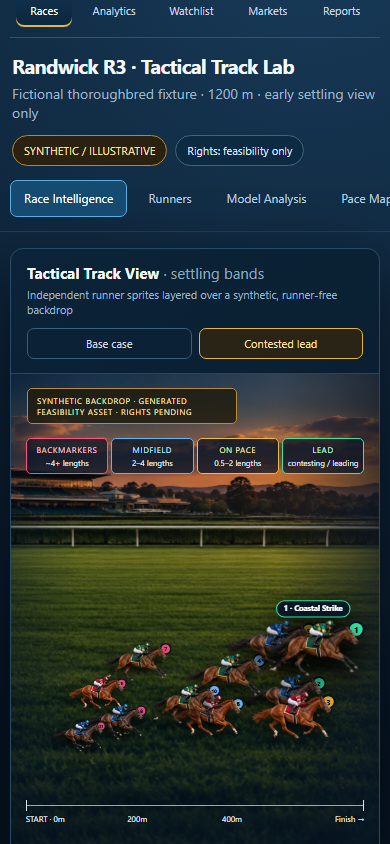
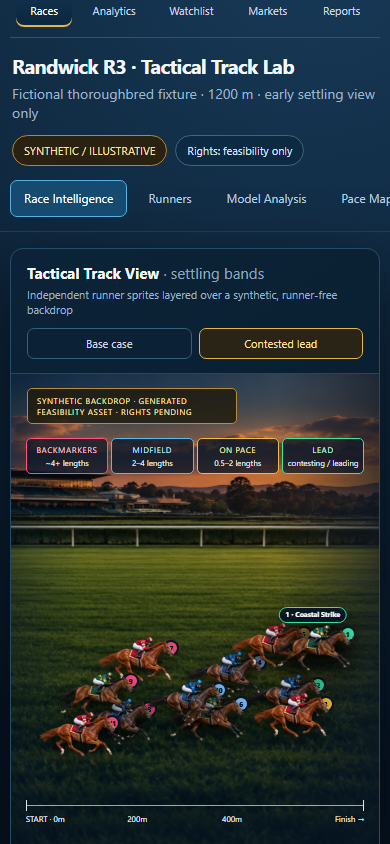
feat: align runner scale and V7 speed map

Changed region(s): [[0.0923, 0.7085, 0.9231, 0.8934]]

diff --git a/apps/web/public/tactical-track-lab.html b/apps/web/public/tactical-track-lab.html
@@ -16,7 +16,10 @@
       .runner-label{top:-18px;background:#081525ed;opacity:0;pointer-events:none;transition:opacity .2s}
       .runner:hover .runner-label,.runner.selected .runner-label{opacity:1}
       .runner .runner-dot{width:16px;height:16px;line-height:16px}
-      @media(max-width:520px){.runner-label{top:-14px;font-size:7px}.runner .runner-dot{width:12px;height:12px;line-height:12px}}
+      .runner,.runner.selected{transform:translate(-50%,-50%) !important}
+      .runner{width:116px}
+      @media(max-width:1080px){.runner{width:96px}}
+      @media(max-width:520px){.runner{width:78px}.runner-label{top:-14px;font-size:7px}.runner .runner-dot{width:12px;height:12px;line-height:12px}}
     </style>
     <style>
       .pace-map{height:146px;background:linear-gradient(180deg,#102f47,#081b2b)}
@@ -27,7 +30,15 @@
       .pace-map-caption{position:absolute;left:13px;top:9px;color:#9db8ca;font-size:8px;letter-spacing:.08em;text-transform:uppercase}
       .pace-runner-dot{position:absolute;width:12px;height:12px;margin:-6px 0 0 -6px;border-radius:50%;background:var(--c);border:2px solid #071525;box-shadow:0 0 0 1px #d9ecf455;z-index:2;color:#071525;font-size:7px;font-weight:800;line-height:8px;text-align:center}
       .pace-runner-dot.selected{width:16px;height:16px;margin:-8px 0 0 -8px;line-height:12px;box-shadow:0 0 0 2px #fff,0 0 0 4px var(--c)}
-      @media(max-width:520px){.pace-map{height:142px}.pace-map-caption{font-size:7px}.pace-runner-dot{width:11px;height:11px;margin:-5px 0 0 -5px;font-size:6px;line-height:7px}.pace-runner-dot.selected{width:14px;height:14px;margin:-7px 0 0 -7px;line-height:10px}}
+      .pace-map{height:166px;padding:0}
+      .pace-map:before,.pace-map:after{display:none}
+      .pace-map-chart{position:absolute;left:68px;right:12px;top:24px;bottom:30px;border:1px dotted #2c5872;background:repeating-linear-gradient(90deg,transparent 0,transparent calc(25% - 1px),#244b63 calc(25% - 1px),#244b63 25%),repeating-linear-gradient(0deg,transparent 0,transparent calc(25% - 1px),#244b63 calc(25% - 1px),#244b63 25%)}
+      .pace-map-band{position:absolute;left:-59px;width:54px;height:25%;top:calc(var(--row) * 25%);display:flex;align-items:center;padding-left:7px;border-left:2px solid var(--band);background:color-mix(in srgb,var(--band) 22%,#0a2235);color:#f4f7fb;font-size:8px;font-weight:700;z-index:1}
+      .pace-map-band.leaders{--band:#43e2a0}.pace-map-band.on-pace{--band:#edbc46}.pace-map-band.midfield{--band:#55bbf8}.pace-map-band.backmarkers{--band:#ff5281}
+      .pace-runner-dot{left:var(--x);top:calc((var(--row) + .5) * 25%);background:var(--c)}
+      .pace-map-axis{position:absolute;left:68px;right:12px;bottom:8px;display:flex;justify-content:space-between;color:#9db8ca;font-size:8px}
+      .pace-map-caption{top:7px}
+      @media(max-width:520px){.pace-map{height:158px}.pace-map-caption{font-size:7px}.pace-map-chart{left:61px;right:9px}.pace-map-band{left:-53px;width:49px;font-size:7px;padding-left:5px}.pace-map-axis{left:61px;right:9px;font-size:7px}.pace-runner-dot{width:11px;height:11px;margin:-5px 0 0 -5px;font-size:6px;line-height:7px}.pace-runner-dot.selected{width:14px;height:14px;margin:-7px 0 0 -7px;line-height:10px}}
     </style>
   </head>
   <body>
@@ -47,7 +58,7 @@
         </section>
         <aside class="side">
           <section class="panel detail" id="detail"></section>
-          <section class="panel map-panel"><h3>Analytical pace map · linked field</h3><div class="pace-map" id="paceMap" role="img" aria-label="Side-on linked pace map"></div><p class="footer-note">Projected settling bands are illustrative, not validated position predictions.</p></section>
+          <section class="panel map-panel"><h3>Speed Map (Analytical View) · linked field</h3><div class="pace-map" id="paceMap" role="img" aria-label="V7-style linked analytical speed map"></div><p class="footer-note">Same synthetic field data as the track view; settling bands are illustrative.</p></section>
           <div class="notice"><b>Quality gate status: HOLD.</b><br />This lab tests layer independence and responsive composition. It is not a production route, licensed artwork, live-data view, or owner approval.</div>
         </aside>
       </main>
@@ -67,19 +78,21 @@
         {n:10,name:'Midnight Storm',color:'#78b9ef',group:'MIDFIELD',detail:'Midfield settling band',factor:'Synthetic fixture'},
         {n:11,name:'Silver Vale',color:'#fb4b78',group:'BACKMARKERS',detail:'Rear group · no precise trajectory claimed',factor:'Synthetic fixture'}
       ];
-      const base={1:[78,60,1.05],2:[73,69,.92],3:[67,58,.98],5:[63,72,.9],4:[55,61,.92],6:[52,72,.82],10:[47,67,.78],7:[36,59,.76],8:[30,72,.7],9:[25,67,.66],11:[20,77,.62]};
-      const contested={1:[82,58,1.08],2:[74,69,.9],3:[76,73,.93],5:[70,58,1],4:[58,64,.88],6:[53,73,.8],10:[47,70,.76],7:[34,61,.74],8:[28,74,.68],9:[23,68,.64],11:[18,77,.6]};
+      const syntheticSilks={1:{asset:"/tactical-track-runners/emerald-gold.png",label:"Emerald and gold"},2:{asset:"/tactical-track-runners/navy-cyan.png",label:"Navy and cyan"},3:{asset:"/tactical-track-runners/crimson-ivory.png",label:"Crimson and ivory"},4:{asset:"/tactical-track-runners/navy-cyan.png",label:"Navy and cyan"},5:{asset:"/tactical-track-runners/crimson-ivory.png",label:"Crimson and ivory"},6:{asset:"/tactical-track-runners/emerald-gold.png",label:"Emerald and gold"},7:{asset:"/tactical-track-runners/crimson-ivory.png",label:"Crimson and ivory"},8:{asset:"/tactical-track-runners/navy-cyan.png",label:"Navy and cyan"},9:{asset:"/tactical-track-runners/emerald-gold.png",label:"Emerald and gold"},10:{asset:"/tactical-track-runners/navy-cyan.png",label:"Navy and cyan"},11:{asset:"/tactical-track-runners/crimson-ivory.png",label:"Crimson and ivory"}};
+      runners.forEach(r=>{r.silks=syntheticSilks[r.n]});
+      const base={1:[78,60,1],2:[73,69,1],3:[67,58,1],5:[63,72,1],4:[55,61,1],6:[52,72,1],10:[47,67,1],7:[36,59,1],8:[30,72,1],9:[25,67,1],11:[20,77,1]};
+      const contested={1:[82,58,1],2:[74,69,1],3:[76,73,1],5:[70,58,1],4:[58,64,1],6:[53,73,1],10:[47,70,1],7:[34,61,1],8:[28,74,1],9:[23,68,1],11:[18,77,1]};
       let scenario='base',selected=1;
       const stage=document.querySelector('#trackStage'), groups=document.querySelector('#groups'), detail=document.querySelector('#detail');
-      function horse(r){const spriteBySilk={emerald:"/tactical-track-runners/emerald-gold.png",navy:"/tactical-track-runners/navy-cyan.png",crimson:"/tactical-track-runners/crimson-ivory.png"};const silk=r.n%3===1?"emerald":r.n%3===2?"navy":"crimson";return `<div class="runner-label">${r.n} · ${r.name}</div><span class="runner-dot">${r.n}</span><img src="${spriteBySilk[silk]}" alt="" draggable="false" />`}
-      function render(){const positions=scenario==='base'?base:contested;stage.querySelectorAll('.runner').forEach(el=>el.remove());runners.forEach(r=>{const el=document.createElement('div');el.className='runner'+(r.n===selected?' selected':'');el.dataset.n=r.n;el.style.cssText=`--runner-color:${r.color};left:${positions[r.n][0]}%;top:${positions[r.n][1]}%;transform:translate(-50%,-50%) scale(${positions[r.n][2]})`;el.innerHTML=horse(r);el.addEventListener('click',()=>{selected=r.n;render()});stage.appendChild(el)});renderGroups();renderDetail()}
+      function horse(r){const silk=r.silks||{asset:"/tactical-track-runners/emerald-gold.png",label:"Synthetic silk"};return `<div class="runner-label">${r.n} · ${r.name}</div><span class="runner-dot">${r.n}</span><img src="${silk.asset}" alt="${r.n} ${r.name} · ${silk.label} silks" draggable="false" />`}
+      function render(){const positions=scenario==='base'?base:contested;stage.querySelectorAll('.runner').forEach(el=>el.remove());runners.forEach(r=>{const el=document.createElement('div');el.className='runner'+(r.n===selected?' selected':'');el.dataset.n=r.n;el.dataset.group=r.group;el.style.cssText=`--runner-color:${r.color};left:${positions[r.n][0]}%;top:${positions[r.n][1]}%;transform:translate(-50%,-50%) scale(${positions[r.n][2]})`;el.innerHTML=horse(r);el.addEventListener('click',()=>{selected=r.n;render()});stage.appendChild(el)});renderGroups();renderDetail()}
       function renderGroups(){const order=['LEAD','ON PACE','MIDFIELD','BACKMARKERS'];groups.innerHTML=order.map(g=>`<section class="group"><h3>${g==='LEAD'?'LEADERS':g[0]+g.slice(1).toLowerCase()} (${runners.filter(r=>r.group===g).length})</h3><ul>${runners.filter(r=>r.group===g).map(r=>`<li><span class="num" style="--c:${r.color}">${r.n}</span><span>${r.name}</span></li>`).join('')}</ul></section>`).join('')}
       function renderDetail(){const r=runners.find(x=>x.n===selected);detail.innerHTML=`<div class="detail-top"><div class="runner-id"><span class="num" style="--c:${r.color}">${r.n}</span><div><b>${r.name}</b><small>Fictional runner · ${r.group.toLowerCase()}</small></div></div><button class="close" aria-label="Selected runner">×</button></div><div class="tabs"><button class="active">Overview</button><button>Pace & Position</button><button>Form</button><button>Evidence</button></div><div class="metric"><label><span>Expected settling band</span><strong style="color:${r.color}">${r.group}</strong></label><div class="bar"><i style="width:${r.group==='LEAD'?88:r.group==='ON PACE'?69:r.group==='MIDFIELD'?46:22}%"></i></div></div><div class="factor"><strong>✦</strong><span>${r.factor}</span></div><div class="factor"><strong>◈</strong><span>${r.detail}</span></div><div class="metric"><label><span>Model confidence</span><span>Illustrative only</span></label><div class="bar"><i style="width:52%;background:linear-gradient(90deg,#e8b33c,#f35e6c)"></i></div></div>`}
       document.querySelectorAll('[data-scenario]').forEach(btn=>btn.addEventListener('click',()=>{scenario=btn.dataset.scenario;document.querySelectorAll('[data-scenario]').forEach(b=>b.classList.toggle('active',b===btn));render()}));render();
     </script>
     <script>
       const paceMap=document.querySelector('#paceMap');
-      function renderPaceMap(){const dots=[...document.querySelectorAll('#trackStage .runner')];paceMap.innerHTML='<span class="pace-map-caption">SIDE-ON EARLY SETTLING · LIVE PROOF</span><span class="pace-map-line upper"></span><span class="pace-map-line lower"></span>'+dots.map(el=>{const x=parseFloat(el.style.left),y=parseFloat(el.style.top),top=25+(y-50)*1.5,label=el.querySelector('.runner-label')?.textContent||`Runner ${el.dataset.n}`,color=getComputedStyle(el).getPropertyValue('--runner-color').trim();return `<span class="pace-runner-dot${el.classList.contains('selected')?' selected':''}" style="--c:${color};left:${x}%;top:${top}%" title="${label}" aria-label="${label}">${el.dataset.n}</span>`}).join('')}
+      function renderPaceMap(){const dots=[...document.querySelectorAll('#trackStage .runner')],rows=[['LEAD','Leaders','leaders'],['ON PACE','On Pace','on-pace'],['MIDFIELD','Midfield','midfield'],['BACKMARKERS','Backmarkers','backmarkers']];paceMap.innerHTML='<span class="pace-map-caption">Same data as track view · expected position</span><div class="pace-map-chart">'+rows.map((row,index)=>`<span class="pace-map-band ${row[2]}" style="--row:${index}">${row[1]}</span>`).join('')+dots.map(el=>{const x=parseFloat(el.style.left),row=Math.max(0,rows.findIndex(item=>item[0]===el.dataset.group)),label=el.querySelector('.runner-label')?.textContent||`Runner ${el.dataset.n}`,color=getComputedStyle(el).getPropertyValue('--runner-color').trim();return `<span class="pace-runner-dot${el.classList.contains('selected')?' selected':''}" style="--c:${color};--x:${x}%;--row:${row}" title="${label}" aria-label="${label}">${el.dataset.n}</span>`}).join('')+'</div><div class="pace-map-axis"><span>800m</span><span>600m</span><span>400m</span><span>200m</span><span>Finish</span></div>'}
       document.querySelectorAll('[data-scenario]').forEach(btn=>btn.addEventListener('click',()=>requestAnimationFrame(renderPaceMap)));
       document.querySelector('#trackStage').addEventListener('click',()=>requestAnimationFrame(renderPaceMap));
       renderPaceMap();

diff --git a/docs/design-rescue/TACTICAL_TRACK_LAB_REVIEW.md b/docs/design-rescue/TACTICAL_TRACK_LAB_REVIEW.md
@@ -15,11 +15,13 @@ The lab is a standalone public HTML entry, not a production route. It uses one s
 - responsive desktop, tablet, and mobile layouts;
 - explicit synthetic/illustrative and rights-pending labels.
 
-The runner field was iterated after the first review: the geometric SVG treatment was removed, photorealistic synthetic horse-and-jockey layers were added, and dense name pills were reduced to a selected-runner label plus numbered identity markers. Full runner names remain in the linked groups and detail panel so the track remains readable at mobile width.
+The runner field was iterated after the first review: the geometric SVG treatment was removed, photorealistic synthetic horse-and-jockey layers were added, and dense name pills were reduced to a selected-runner label plus numbered identity markers. All runners now use one shared visual scale per viewport so the side-on field reads consistently. Full runner names remain in the linked groups and detail panel so the track remains readable at mobile width.
+
+The renderer now consumes a per-runner `silks` metadata object. This lab supplies synthetic local assets only; it does not activate or call Betfair. A production adapter can populate the same field from a rights-cleared provider-normalized silk asset or colour/pattern manifest.
 
 The backdrop was then iterated from a bend to a straightaway, and finally to the correct side-on race view for the side-profile runner layers. Horizontal parallel rails now sit behind the field, leaving the compositing zone open so runners do not visually intersect the fence.
 
-The analytical pace map was also corrected. It now renders all eleven field members from the main track DOM, follows Base/Contested scenario movement, and highlights the same selected runner instead of showing an unrelated four-dot placeholder.
+The analytical pace map was also corrected to follow the V7 golden language: four labelled settling bands, a gridded distance-to-finish axis, all eleven field members from the main track DOM, Base/Contested scenario movement, and the same selected-runner highlight instead of an unrelated four-dot placeholder.
 
[1 lines of base64/hex data omitted]
 
@@ -29,12 +31,12 @@ All screenshots are real Chromium captures at DPR 1. Mobile captures scroll the 
 
 | Scenario | Viewport | Screenshot | SHA-256 |
 | --- | ---: | --- | --- |
[12 lines of base64/hex data omitted]
 
 ## Validation
 

diff --git a/docs/design-rescue/V7_DESIGN_BASELINE.md b/docs/design-rescue/V7_DESIGN_BASELINE.md
@@ -32,8 +32,8 @@ The design programme retains all fourteen workspaces: Command Centre; Meetings &
 
 For any changed UI, the eventual evidence package must include real browser screenshots at 1440×900, 768×1024, and 390×844; a pinned V7 reference; the same synthetic fixture across views; rights/design-state declarations; and a distinct human reviewer plus owner decision. Automated checks can validate file integrity and declared evidence, but cannot provide artistic approval, legal clearance, race-domain validation, or owner sign-off.
 
-The current Phase 0 state is HOLD for Tactical Track implementation: no renderer candidate, screenshots, independent review, or owner decision has yet been produced.
+The current Phase 0 state is a visual candidate advanced for review with production HOLD: a standalone Tactical Track lab, real desktop/tablet/mobile screenshots, and automated evidence now exist, while independent reviewer/owner decisions and asset rights clearance remain outstanding.
 
 ## Next reviewable increment
 
-The next implementation increment is an isolated Tactical Track design laboratory behind a feature flag or standalone route. It must compare a layered 2D/sprite candidate with a practical GPU/3D challenger where feasible, use one synthetic fixture, and stop at REVISE/HOLD if the result is visually weaker than V7.
+The isolated Tactical Track design laboratory is the current reviewable increment. It uses one synthetic fixture, a side-on layered 2D/sprite candidate, and a V7-style analytical speed map. The next gate is rights/design-state resolution plus distinct human reviewer and owner decisions; no production route, provider activation, wagering capability, or deployment is implied.

diff --git a/docs/design-rescue/PHASE0_STATUS.md b/docs/design-rescue/PHASE0_STATUS.md
@@ -13,7 +13,7 @@
 | Full V7 handoff validation | COMPLETE | `validate_pack.py` passed: 38 hashed sources, 5 epics, 27 tickets, valid dependencies, V7 golden set, three-code fixture, and importer dry run. |
 | E12-E16 / NXD-001-NXD-027 import | COMPLETE | 32 canonical issues are open; URLs are listed below. |
 | Design baseline documentation PR | COMPLETE / DRAFT | Draft PR #177 contains documentation and reference-manifest changes only. |
-| Tactical Track renderer feasibility | IN PROGRESS / PRODUCTION HOLD | Standalone lab now uses realistic independently placeable synthetic horse-and-jockey layers; six refreshed browser screenshots pass the automated visual/interaction checks, while asset rights and human approval remain unresolved. |
+| Tactical Track renderer feasibility | IN PROGRESS / PRODUCTION HOLD | Standalone lab now uses realistic independently placeable, equal-scale synthetic horse-and-jockey layers plus a V7-style linked analytical speed map; six refreshed browser screenshots pass the automated visual/interaction checks, while Betfair/provider wiring, asset rights, and human approval remain unresolved. |
 | Human visual review / owner approval | NOT STARTED | No automated result is treated as artistic approval. |
 
 ## Protected handoff material
